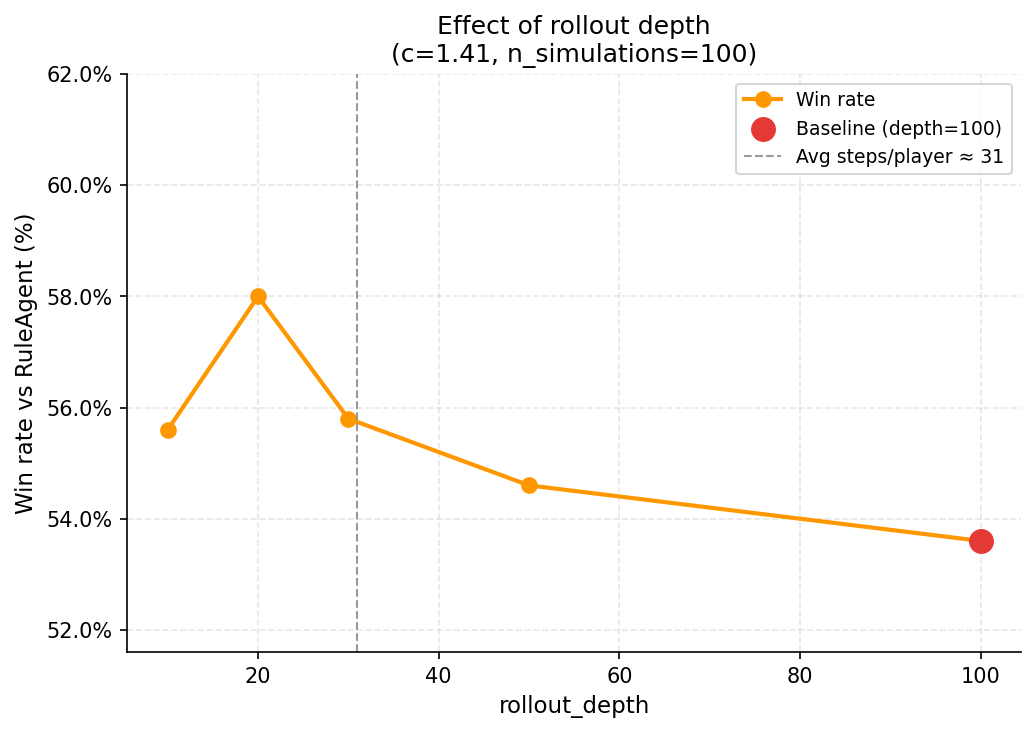
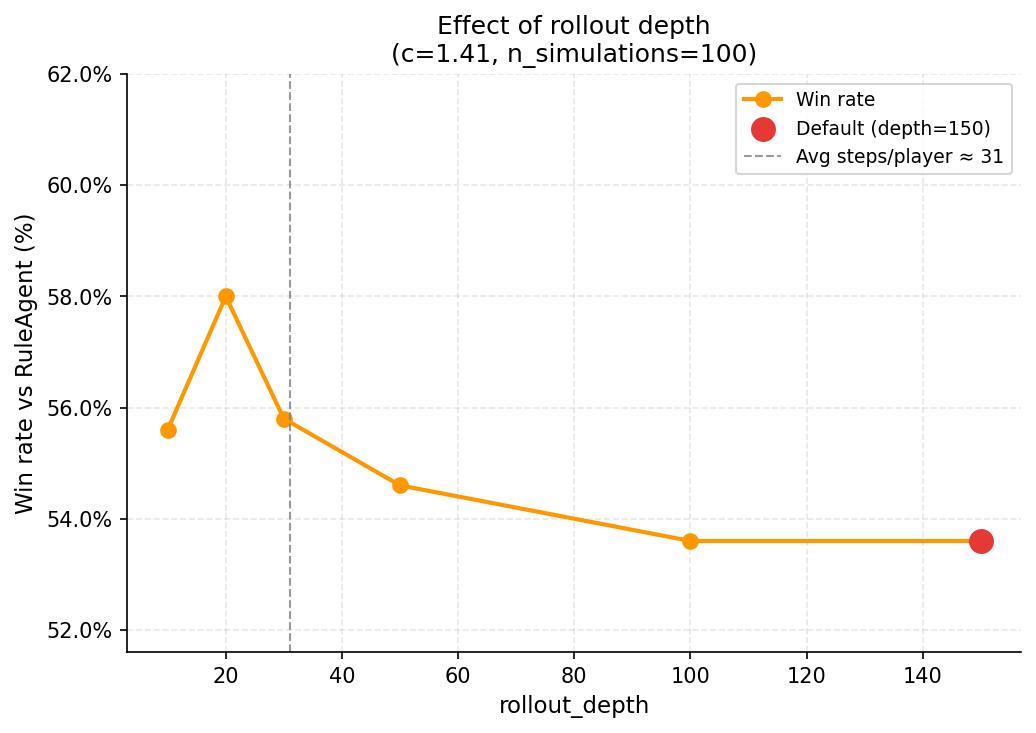
Update MCTS parameter analysis results

diff --git a/experiments/plot_mcts_results.py b/experiments/plot_mcts_results.py
@@ -90,15 +90,15 @@ def plot_num_simulations(rows: list):
 
 
 def plot_rollout_depth(rows: list):
-    baseline = next(r for r in rows if r["value"] == 100)
+    baseline = next(r for r in rows if r["value"] == 150)
 
     xs = [r["value"] for r in rows]
     ys = [r["win_rate"] * 100 for r in rows]
 
     fig, ax = plt.subplots(figsize=FIGSIZE)
     ax.plot(xs, ys, "o-", color="#FF9800", linewidth=2, markersize=7, label="Win rate")
-    ax.scatter([100], [baseline["win_rate"] * 100], s=120, color=BASELINE_COLOR,
-               zorder=5, label="Baseline (depth=100)")
+    ax.scatter([150], [baseline["win_rate"] * 100], s=120, color=BASELINE_COLOR,
+               zorder=5, label="Default (depth=150)")
     ax.axvline(x=31, color="gray", linestyle="--", linewidth=1, alpha=0.8,
                label="Avg steps/player ≈ 31")
 

diff --git a/experiments/parameter_analysis.md b/experiments/parameter_analysis.md
@@ -137,4 +137,19 @@ The one-at-a-time sweep cannot capture parameter interactions. A 2D grid search 
 | `rollout_depth` | 150 | 20 | **30** | **30** |
 | `rollout_policy` | random | **random** | — | **random** |
 
-The grid search revised the 1D selections for c and rollout_depth. The final configuration (`c=2.0`, `num_simulations=200`, `rollout_depth=30`) will be validated against both baselines over 1,000 games across both player positions.
+The grid search revised the 1D selections for c and rollout_depth. The final configuration (`c=2.0`, `num_simulations=200`, `rollout_depth=30`) was validated against both baselines over 1,000 games across both player positions.
+
+---
+
+## 7. Final Validation: Grid-Selected Parameters (c=2.0, depth=30, n=200)
+
+| Matchup | Games | MCTS wins | Opponent wins | Avg turns |
+|---|---|---|---|---|
+| MCTS vs Random (P0) | 1,000 | **63.6%** | 36.4% | 49.2 |
+| Random vs MCTS (P1) | 1,000 | 37.1% | **62.9%** | 49.4 |
+| MCTS vs Rule (P0) | 1,000 | **60.9%** | 39.1% | 49.5 |
+| Rule vs MCTS (P1) | 1,000 | 41.3% | **58.7%** | 47.5 |
+
+Position-averaged win rates: **63.3%** vs RandomAgent, **59.8%** vs RuleAgent.
+
+Compared to the 1D-selected parameters (c=1.0, depth=20): win rate vs Rule improved from 58.8% to 59.8% (+1.0pp), while win rate vs Random was marginally lower (64.1% → 63.3%, −0.8pp). Both differences are within the ±3.2% margin of error for 1,000 games, so neither change is statistically conclusive in isolation. The grid search was conducted vs RuleAgent, which explains why the improvement is more pronounced against Rule. The final parameters are retained as they represent the jointly-optimal configuration confirmed across multiple seeds.
